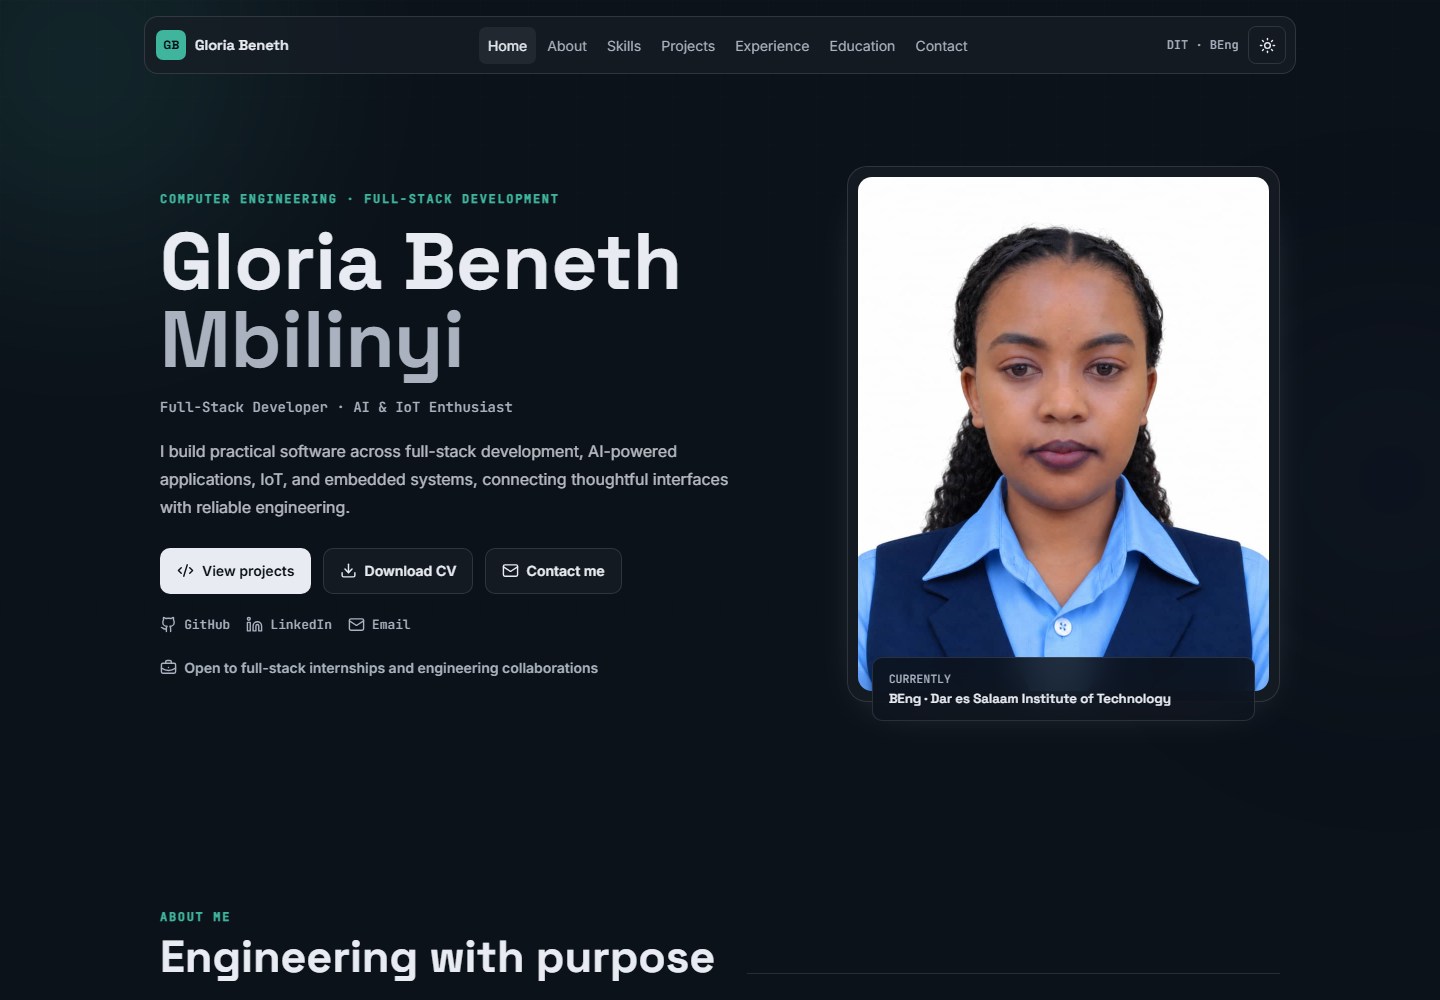
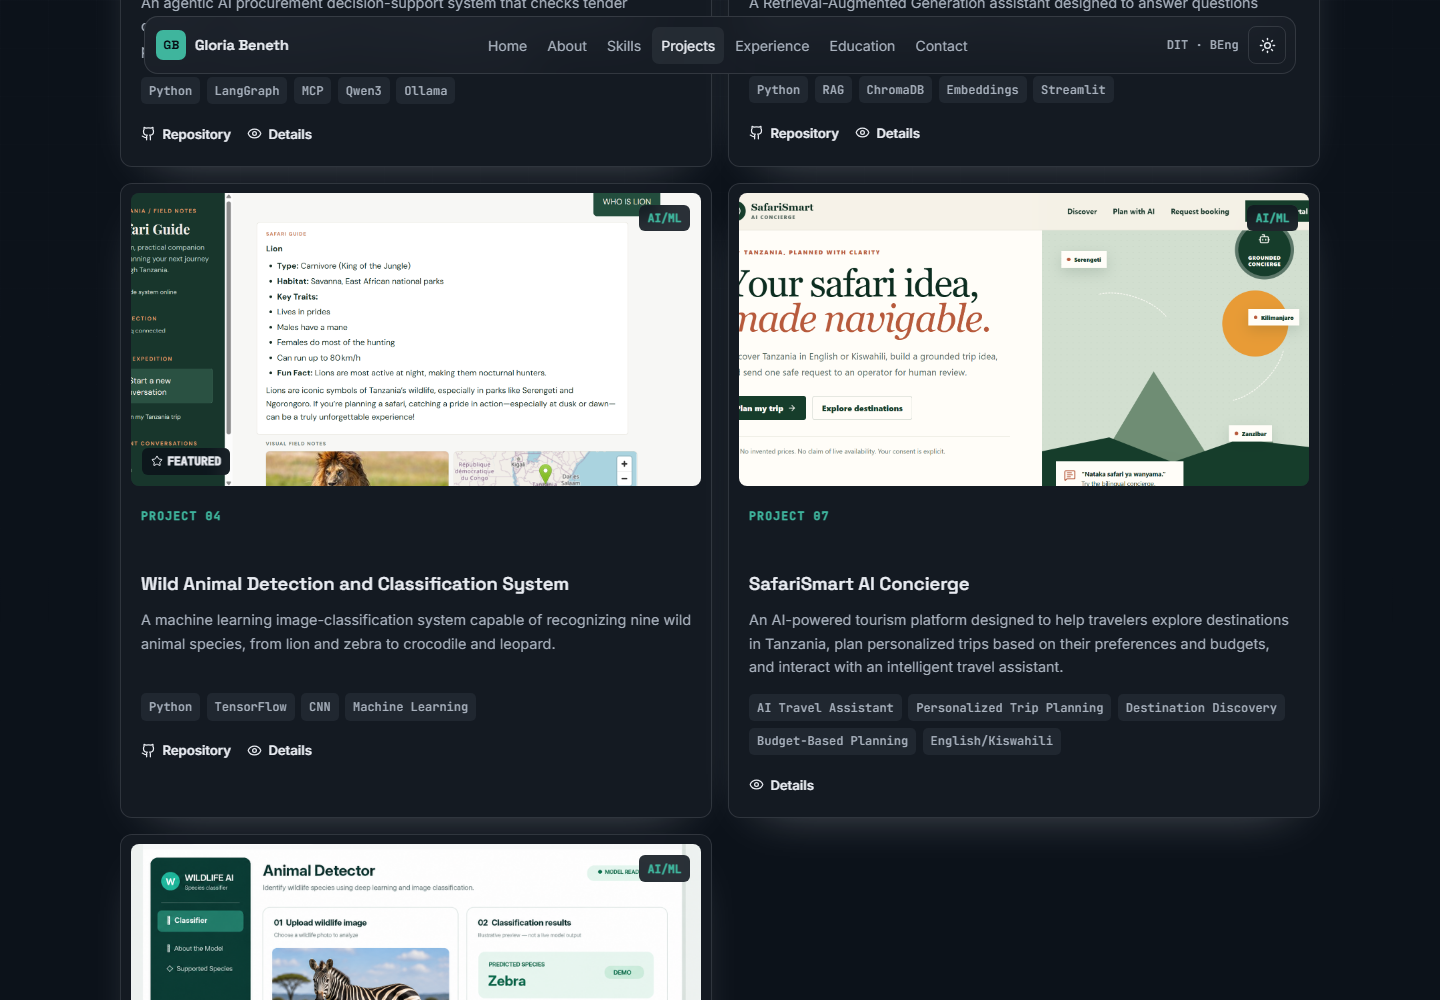
feat: add SafariSmart project and project screenshots

diff --git a/src/data/portfolio.ts b/src/data/portfolio.ts
@@ -1,7 +1,12 @@
 import codingPhoto from "@/assets/images/profile/coding.jpg";
 import profilePhoto from "@/assets/images/profile/profile.jpg";
+import animalDetectorImg from "@/assets/images/projects/animal-detector.png";
 import ditSmartImg from "@/assets/images/projects/dit-smart-assistant.png";
+import geePlayerImg from "@/assets/images/projects/gee-player.png";
 import liftSystemImg from "@/assets/images/projects/lift-system.jpg";
+import safariSmartImg from "@/assets/images/projects/safarismart-ai-concierge.png";
+import smartClinicImg from "@/assets/images/projects/smart-clinic.png";
+import tenderGuardImg from "@/assets/images/projects/tenderguard-africa.png";
 import waterTankImg from "@/assets/images/projects/water-tank-iot.jpg";
 import wildlifeSafariImg from "@/assets/images/projects/wildlife-safari-assistant.jpg";
 import pcbPhoto from "@/assets/images/training/pcb-creation.jpg";
@@ -99,6 +104,7 @@ export const projects: PortfolioProject[] = [
     technologies: ["Python", "LangGraph", "MCP", "Qwen3", "Ollama", "Pydantic"],
     github: "https://github.com/gloria-mbilinyi/TenderGuard-Africa",
     imageLabel: "Agentic AI procurement workflow",
+    image: tenderGuardImg,
     featured: true,
   },
   {
@@ -110,6 +116,7 @@ export const projects: PortfolioProject[] = [
     github: "https://github.com/gloria-mbilinyi/smart-clinic",
     secondaryGithub: "https://github.com/gloria-mbilinyi/smart-clinic-frontend",
     imageLabel: "Full-stack clinic platform",
+    image: smartClinicImg,
     featured: true,
   },
   {
@@ -155,12 +162,21 @@ export const projects: PortfolioProject[] = [
     image: waterTankImg,
   },
   {
-    title: "Wireless Sensor Network",
-    category: "IoT",
+    title: "SafariSmart AI Concierge",
+    category: "AI/ML",
     description:
-      "A wireless sensor network prototype using Arduino sensor nodes and ESP-01 communication for environmental monitoring and gateway connectivity.",
-    technologies: ["Arduino", "ESP-01", "DHT11", "Wireless Communication"],
-    imageLabel: "Wireless sensor network architecture",
+      "An AI-powered tourism platform designed to help travelers explore destinations in Tanzania, plan personalized trips based on their preferences and budgets, and interact with an intelligent travel assistant.",
+    technologies: [
+      "AI Travel Assistant",
+      "Personalized Trip Planning",
+      "Destination Discovery",
+      "Budget-Based Planning",
+      "English/Kiswahili",
+      "Booking Requests",
+      "Operator Portal",
+    ],
+    imageLabel: "SafariSmart AI Concierge travel planning interface",
+    image: safariSmartImg,
   },
   {
     title: "Gee Player",
@@ -170,6 +186,7 @@ export const projects: PortfolioProject[] = [
     technologies: ["Flutter", "Dart", "media_kit", "Dio", "SQLite"],
     github: "https://github.com/gloria-mbilinyi/GeePlayer",
     imageLabel: "Flutter media player interface",
+    image: geePlayerImg,
   },
   {
     title: "Animal Detector",
@@ -179,6 +196,7 @@ export const projects: PortfolioProject[] = [
     technologies: ["Python", "TensorFlow", "CNN", "Streamlit"],
     github: "https://github.com/gloria-mbilinyi/animal_detector",
     imageLabel: "Animal Detector interface",
+    image: animalDetectorImg,
   },
 ];
 

diff --git a/README.md b/README.md
@@ -127,7 +127,7 @@ npm run dev -- --host 127.0.0.1 --port 4180 --strictPort
 npm run qa:browser
 ```
 
-The browser suite launches isolated headless Chrome sessions at 1440 x 1000 and 390 x 844. It verifies viewport overflow, theme switching, mobile navigation, project filtering, the TenderGuard detail dialog, CV availability, contact links, metadata, and browser-console errors.
+The browser suite launches isolated headless Chrome sessions at 1440 x 1000 and 390 x 844. It verifies viewport overflow, theme switching, mobile navigation, project filtering, the SafariSmart detail dialog and screenshot, CV availability, contact links, metadata, and browser-console errors.
 
 Manual QA covers:
 
@@ -144,7 +144,7 @@ Manual QA covers:
 
 ### Desktop
 
-![Desktop portfolio in dark mode](docs/screenshots/portfolio-desktop.png)
+![Desktop AI and machine-learning project cards in dark mode](docs/screenshots/portfolio-desktop.png)
 
 ### Mobile navigation
 
